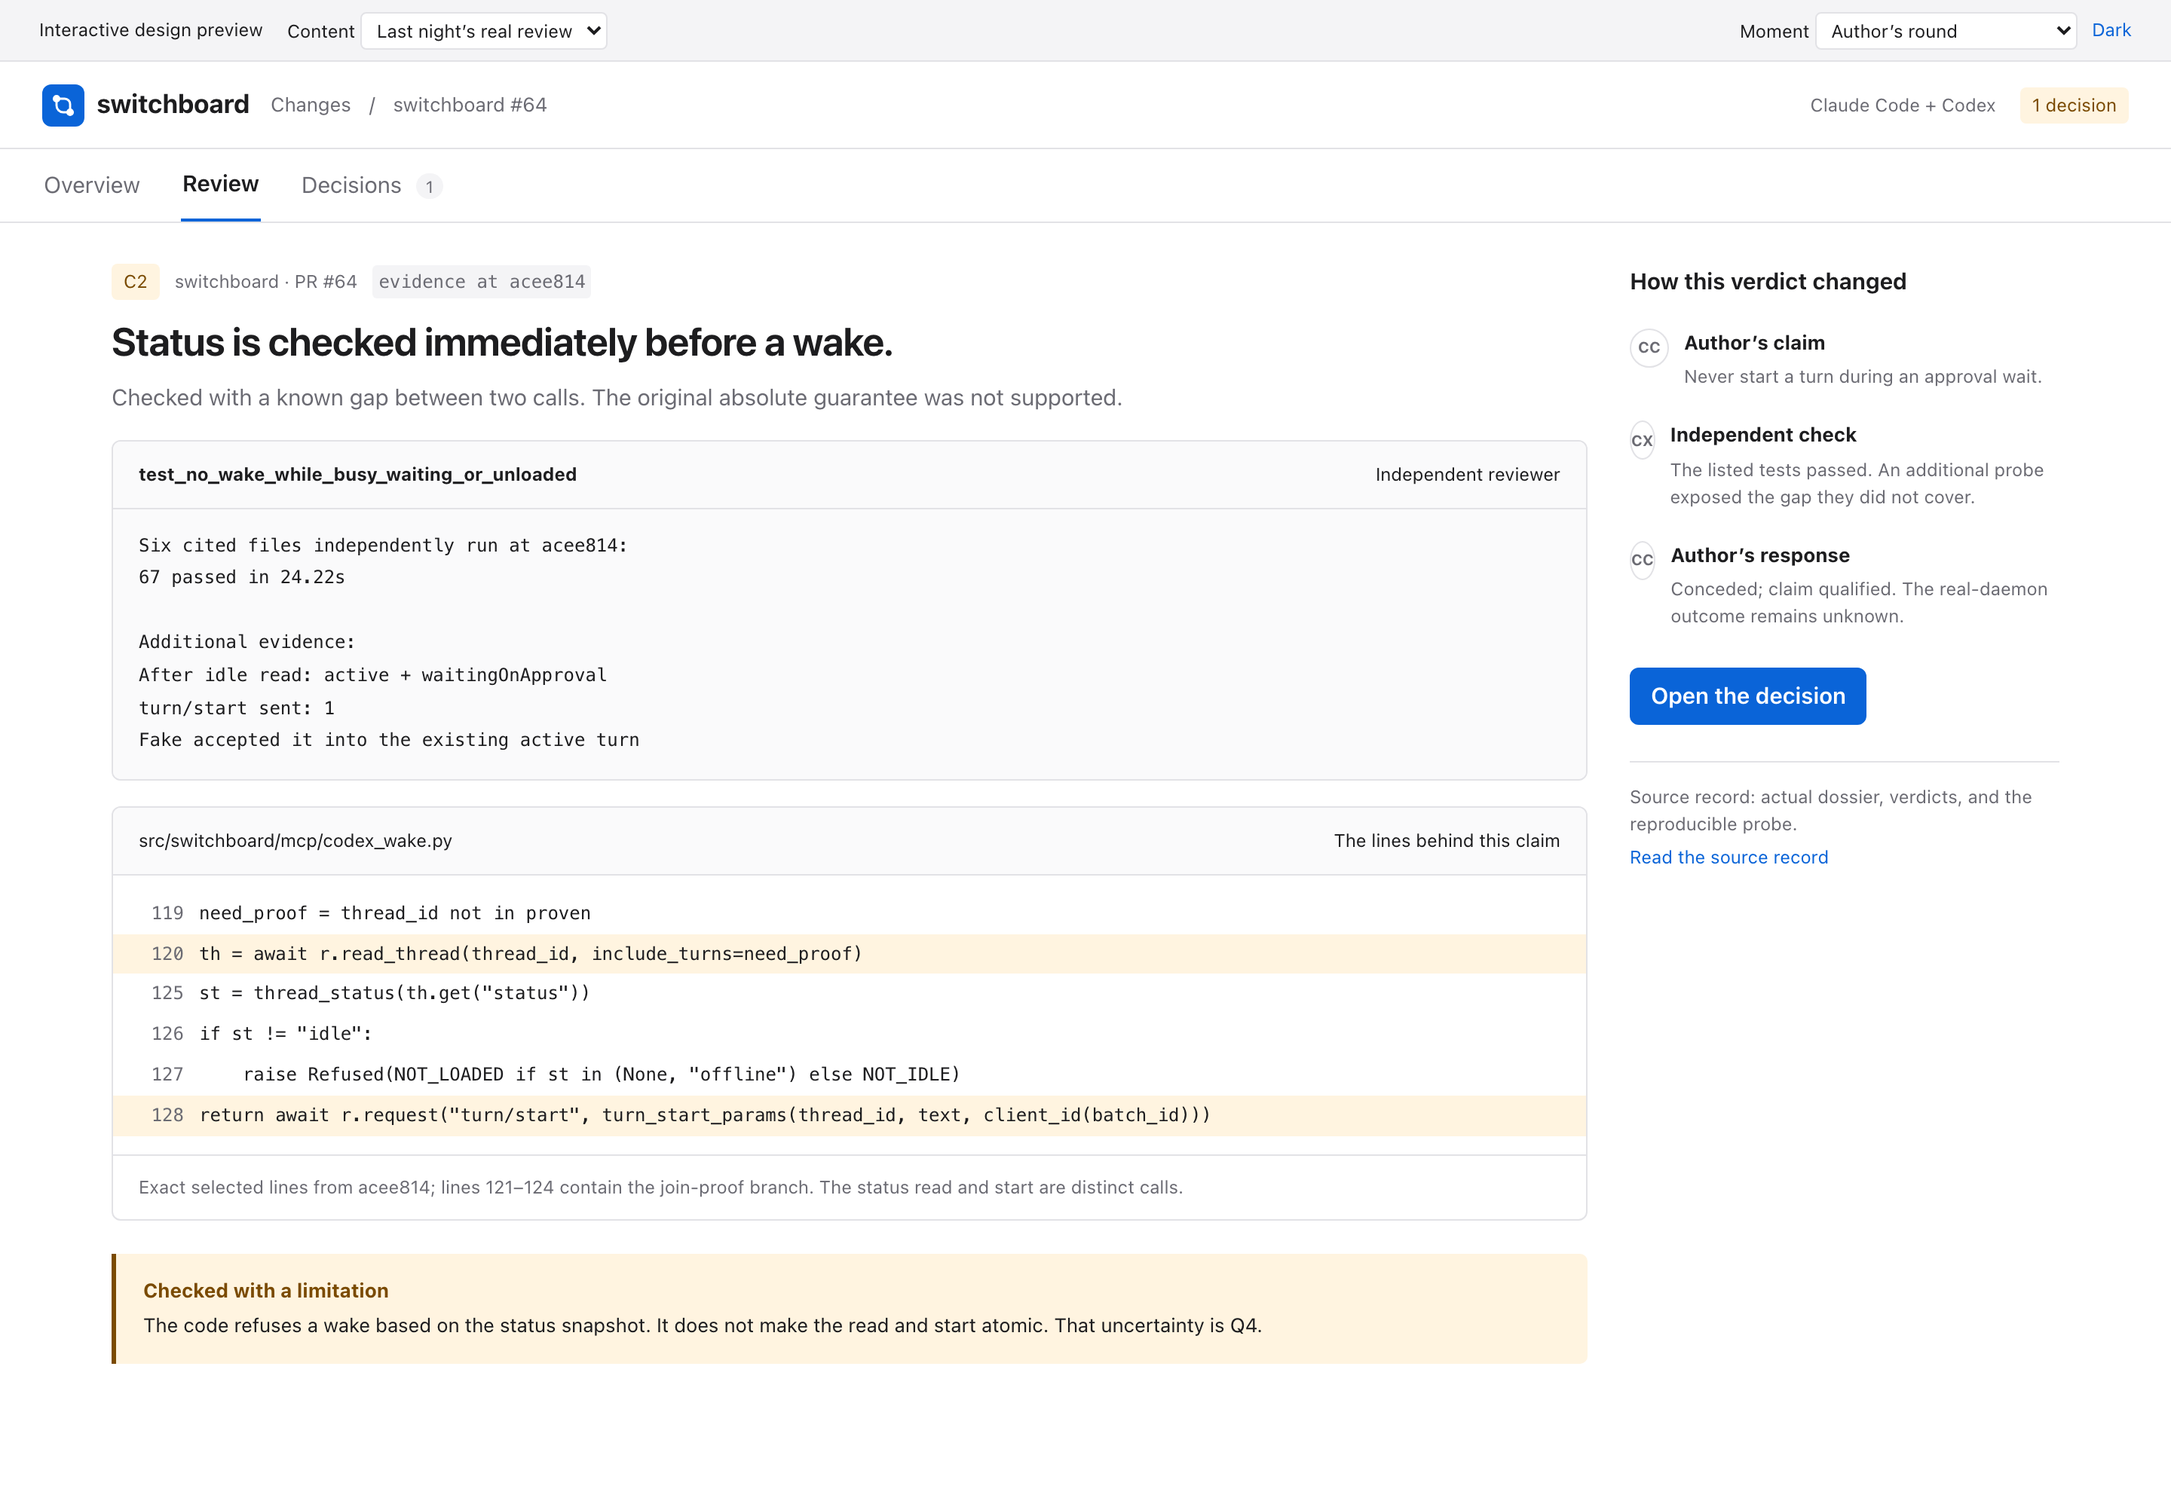
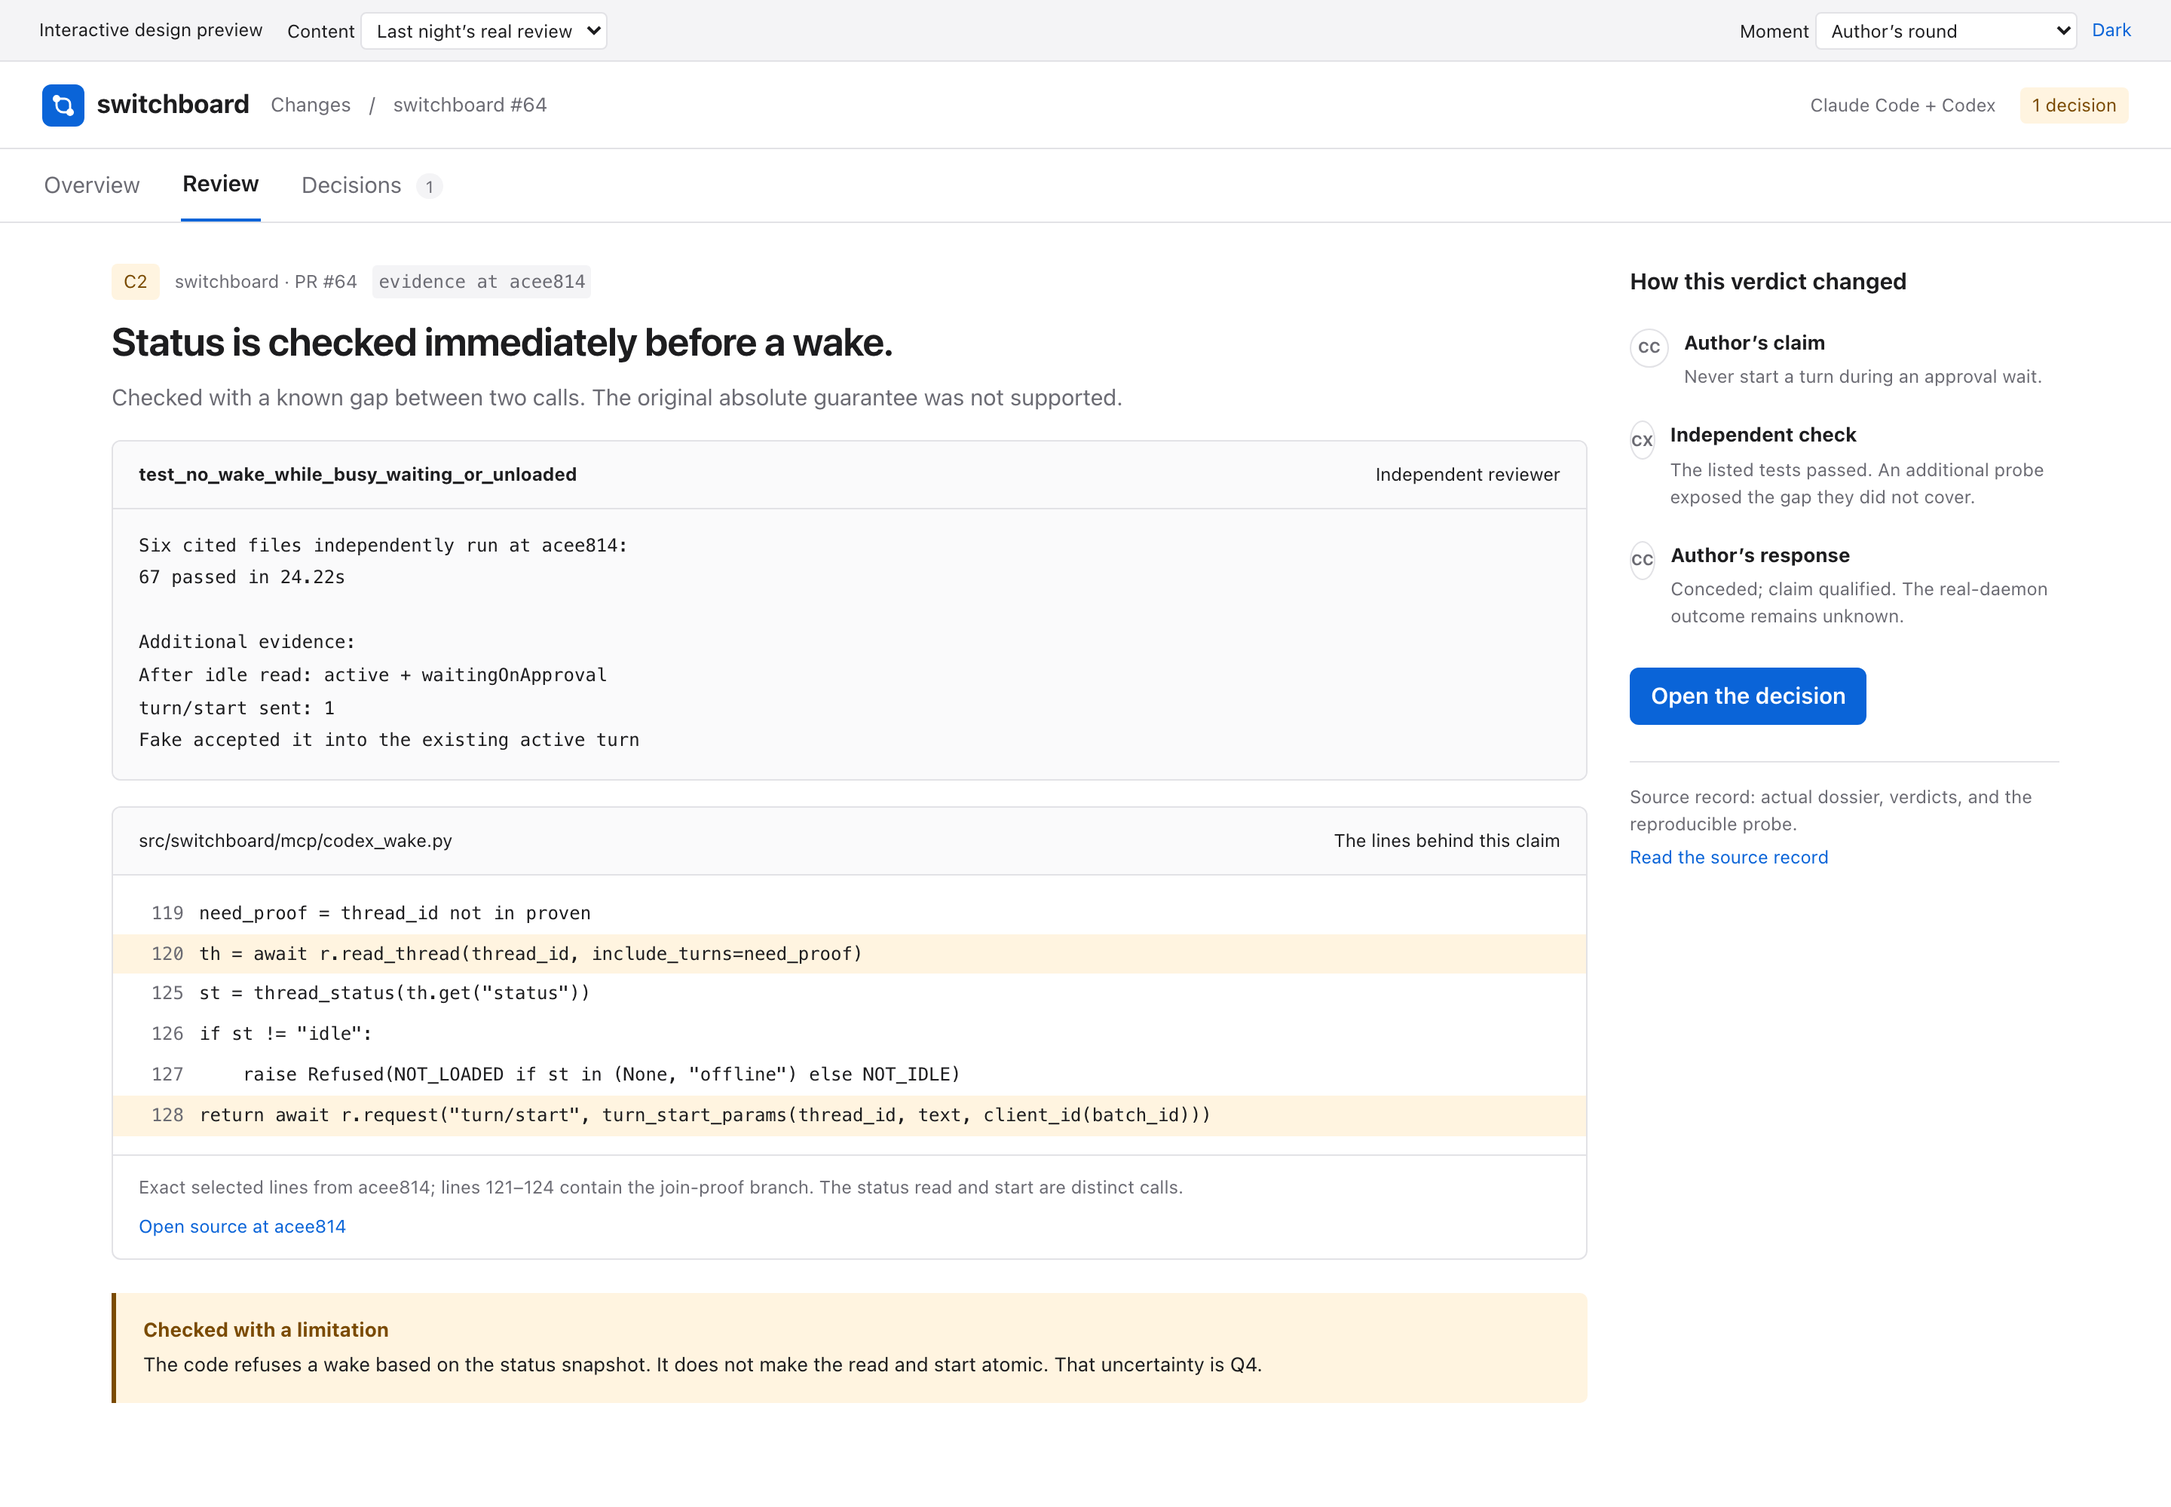
design(review): connect claims to their source

Changed region(s): [[0.0312, 0.806, 0.75, 0.93]]

diff --git a/issue-80/redesign/index.html b/issue-80/redesign/index.html
@@ -64,6 +64,8 @@ function isStale(){return state.phase==='stale'}
 function questionCount(){return isInitial()||state.answer?0:1}
 function revision(){return isStale()?'8f39c2a':state.data==='shop'&&state.rechecked?'a6c2b04':current().revision}
 function evidenceRevision(){return state.data==='shop'&&state.rechecked?revision():current().revision}
+function claimStop(id){return (state.data==='real'?{C1:1,C2:3,C3:2,C4:2,C5:2,C6:1,C7:3,C8:4}:{C1:1,C2:3,C3:2,C4:4})[id]||1}
+function sourceLink(c){const [file,lines]=c.path.split(':');const line=lines.split(/[–-]/)[0];return `<a class="small" href="https://github.com/amahpour/switchboard/blob/acee814c8d27e60ef6b2aed24621f0b278279afc/src/switchboard/${file}#L${line}" target="_blank" rel="noreferrer">Open source at acee814</a>`}
 function pendingFix(){return state.data==='shop'&&state.answer&&!state.rechecked}
 function btn(text,action,classes='',disabled=false){return `<button class="${classes}" data-action="${action}" ${disabled?'disabled':''}>${text}</button>`}
 function badge(text,tone=''){return `<span class="badge ${tone}">${text}</span>`}
@@ -71,7 +73,7 @@ function flow(nodes,classes=[]){return `<div class="flow">${nodes.map((node,inde
 function diagram(mode='pair'){
  const d=current();
  const classes=d.after.map((_,i)=>i===d.riskNode?'risk':state.data==='real'&&i>0?'changed':'');
- return `<div class="flow-wrap"><div class="flow-caption">${mode==='pair'?'The piece that changed':state.data==='real'?'The message’s path':'The checkout calculation'}</div><div class="flow-pair">${mode==='pair'?`<div class="row" style="gap:8px"><span class="flow-label">Before</span><div class="grow">${flow(d.before)}</div></div>`:''}<div class="row" style="gap:8px"><span class="flow-label">${mode==='pair'?'After':'Path'}</span><div class="grow">${flow(d.after,classes)}</div></div></div><div class="diagram-link">${btn(isInitial()?'Follow the change':state.data==='real'?'See the gap between read and start':'Compare the two totals',isInitial()?'tour':'decision','text small')}</div></div>`;
+ return `<div class="flow-wrap"><div class="flow-caption">${mode==='pair'?'The piece that changed':state.data==='real'?'The message’s path':'The checkout calculation'}</div><div class="flow-pair">${mode==='pair'?`<div class="row" style="gap:8px"><span class="flow-label">Before</span><div class="grow">${flow(d.before)}</div></div>`:''}<div class="row" style="gap:8px"><span class="flow-label">${mode==='pair'?'After':'Path'}</span><div class="grow">${flow(d.after,classes)}</div></div></div><div class="diagram-link">${btn(isInitial()?'Follow the change':state.data==='real'?'See the gap between read and start':'Compare the two totals',isInitial()?'stop:1':'decision','text small')}</div></div>`;
 }
 function questionPanel(){
  const d=current();
@@ -84,7 +86,7 @@ function activities(){
  return `<div class="work-aside"><h3>Review activity</h3><div class="agentline"><span class="avatar">CX</span><div><strong>Codex · independent reviewer</strong><p>${isInitial()?'Checking claims against the pinned tree.':isStale()?'Affected checks need to run on the new revision.':`${d.testResult}. ${state.data==='real'?'An additional probe exposed C2’s limit.':'A receipt mismatch was found.'}`}</p></div></div><div class="agentline"><span class="avatar">CC</span><div><strong>Claude Code · author</strong><p>${isInitial()?'Claims and evidence ready for review.':phase==='verdict'?'Responding to the findings.':pendingFix()?'Changing the offer'+(state.answer==='followup'?', calculation, and receipt.':'.'):'Concessions recorded. '+(state.data==='real'?'C2’s wording corrected.':'Receipt fixed and rechecked.')}</p></div></div><ol class="timeline"><li><strong>Dossier ready</strong>${d.times[0]} UTC · ${d.revision}</li>${!isInitial()?`<li><strong>Independent verdicts</strong>${d.times[1]} UTC · ${state.data==='real'?'one claim overstated':'receipt mismatch found'}</li>`:''}${phase==='round'||isStale()?`<li><strong>Author’s round complete</strong>${d.times[2]} UTC · one decision for a person</li>`:''}${isStale()?'<li><strong>New revision · simulated</strong>Two checks need updating</li>':''}</ol></div>`;
 }
 function revisionNotice(){return isStale()?`<div class="revision-notice"><div><strong>New revision: two checks need updating.</strong><p>This simulated push changes the lines behind ${state.data==='real'?'C2 and C7':'C2 and C4'}. Their evidence belongs to <code>${current().revision}</code>, not <code>${revision()}</code>. The review cannot finish until those checks are repeated.</p></div></div>`:''}
-function head(){const d=current();return `<div class="pagehead"><div class="row"><div><h1>${esc(d.title)}</h1><div class="subtitle">${esc(d.repo)} · PR #${d.number} · ${isStale()?'new simulated revision':'reviewed revision'} <code>${revision()}</code>${state.data==='real'?' · retrospective of a merged PR':''}</div></div><div class="controls">${btn('Explain the change','tour')} ${btn('Review outgoing','outgoing')}</div></div></div>${revisionNotice()}`}
+function head(){const d=current();return `<div class="pagehead"><div class="row"><div><h1>${esc(d.title)}</h1><div class="subtitle">${esc(d.repo)} · PR #${d.number} · ${isStale()?'new simulated revision':'reviewed revision'} <code>${revision()}</code>${state.data==='real'?' · retrospective of a merged PR':''}</div></div><div class="controls">${btn('Explain the change','stop:1')} ${btn('Review outgoing','outgoing')}</div></div></div>${revisionNotice()}`}
 function claimState(c){
  if(isInitial())return ['To check','blue'];
  if(isStale()&&['C2',state.data==='real'?'C7':'C4'].includes(c.id))return ['Needs recheck','amber'];
@@ -121,7 +123,7 @@ function decisionContent(){
 function evidenceContent(){
  const d=current(); const c=d.claims.find(x=>x.id===state.detail)||d.claims[1]; const main=c.id==='C2'; const shopAfter=state.data==='shop'&&state.rechecked&&state.answer==='followup'; const codeLines=shopAfter?[['39','subtotal = sum(item.price for item in cart)'],['40','discount = validate_code(code, subtotal)'],['41','tax = calculate_tax(subtotal)'],['42','total = max(0, subtotal + tax - discount)'],['43','return total']]:d.code;
  if(isInitial())return `<div class="evidence-layout"><div><div class="context-label">${badge(c.id,'blue')}<code>${d.revision}</code></div><h1 style="margin:12px 0">${esc(claimTitle(c))}</h1><p class="muted">Author-supplied evidence. The independent verdict is pending.</p><div class="proof-panel"><div class="proof-head"><strong>${esc(c.test)}</strong></div><div class="proof-content"><p class="muted">Source reference: ${esc(c.path)}. The reviewer will check the named test and inspect the code at this revision.</p></div></div></div><aside>${questionPanel()}</aside></div>`;
- return `${revisionNotice()}<div class="evidence-layout"><div><div class="context-label">${badge(c.id,main?'amber':'')}<span>${esc(d.repo)} · PR #${d.number}</span><code>evidence at ${evidenceRevision()}</code></div><h1 style="margin:12px 0 10px">${esc(claimTitle(c))}</h1><p class="muted">${esc(c.proof)}. ${main&&state.data==='real'?'The original absolute guarantee was not supported.':''}</p><div class="proof-panel"><div class="proof-head"><strong>${esc(shopAfter?'test_discount_after_tax':c.test)}</strong><span>Independent reviewer</span></div><div class="test-proof">${state.data==='real'?'Six cited files independently run at acee814:':'Illustrative shop checks:'}<br>${esc(d.testResult)}${main?`<br><br>Additional evidence:<br>${esc(d.probe).replace(/\n/g,'<br>')}`:''}</div></div>${main?`<div class="proof-panel"><div class="proof-head"><span>${state.data==='real'?'src/switchboard/mcp/codex_wake.py':'checkout/total.py'}</span><span>The lines behind this claim</span></div><div style="padding:12px 0">${codeLines.map(([ln,code])=>`<div class="code-line ${['120','128','41','42'].includes(ln)?'highlight':''}"><span class="ln">${ln}</span><span>${esc(code)}</span></div>`).join('')}</div><div class="code-note">${state.data==='real'?'Exact selected lines from acee814; lines 121–124 contain the join-proof branch. The status read and start are distinct calls.':shopAfter?'Fictional revised source. Discount now follows the tax calculation; affected checks were replayed in this illustrative snapshot.':'Fictional source at the initial revision. A different tax choice requires new code and evidence.'}</div></div>`:`<div class="proof-panel"><div class="proof-head"><span>${esc(c.path)}</span><span>at ${d.revision}</span></div><div class="proof-content"><h3>Evidence tied to this claim</h3><p class="muted">${esc(c.proof)}. The named test and source reference identify what was checked.</p>${btn('Explain this part of the change','tour','text')}</div></div>`}${main?`<div class="verdict"><strong>${state.data==='real'?'Checked with a limitation':state.answer?'Selected policy and calculation':'Calculation checked; intent unresolved'}</strong>${state.data==='real'?'The code refuses a wake based on the status snapshot. It does not make the read and start atomic. That uncertainty is Q4.':state.rechecked?'Illustrative later snapshot: the selected policy, offer, and receipt agree. This is not a real test run.':'This establishes what the initial code does. Q1 asks what customers should be promised.'}</div>`:''}</div><aside><h3>How this verdict changed</h3><div class="history-item"><span class="avatar">CC</span><div><strong>Author’s claim</strong><p>${state.data==='real'&&main?'Never start a turn during an approval wait.':esc(c.title)}</p></div></div><div class="history-item"><span class="avatar">CX</span><div><strong>Independent check</strong><p>${state.data==='real'&&main?'The listed tests passed. An additional probe exposed the gap they did not cover.':esc(c.proof)}</p></div></div>${state.phase==='verdict'?'':`<div class="history-item"><span class="avatar">CC</span><div><strong>Author’s response</strong><p>${main&&state.data==='real'?'Conceded; claim qualified. The real-daemon outcome remains unknown.':main?'Calculation is as written. The product choice goes to a person.':'Evidence checked at the pinned revision.'}</p></div></div>`}${main?`<div style="margin-top:25px">${btn('Open the decision','decision','primary')}</div>`:''}<div class="footer-note">${state.data==='real'?'Source record: actual dossier, verdicts, and the reproducible probe.':'Shop evidence is illustrative, not a recorded test run.'}</div>${state.data==='real'?'<a class="small" href="https://github.com/amahpour/switchboard/blob/01e199e4e44189fba44fc9a099bbb6fada5aaff9/docs/research/dossier-experiment.md" target="_blank" rel="noreferrer">Read the source record</a>':''}</aside></div>`;
+ return `${revisionNotice()}<div class="evidence-layout"><div><div class="context-label">${badge(c.id,main?'amber':'')}<span>${esc(d.repo)} · PR #${d.number}</span><code>evidence at ${evidenceRevision()}</code></div><h1 style="margin:12px 0 10px">${esc(claimTitle(c))}</h1><p class="muted">${esc(c.proof)}. ${main&&state.data==='real'?'The original absolute guarantee was not supported.':''}</p><div class="proof-panel"><div class="proof-head"><strong>${esc(shopAfter?'test_discount_after_tax':c.test)}</strong><span>Independent reviewer</span></div><div class="test-proof">${state.data==='real'?'Six cited files independently run at acee814:':'Illustrative shop checks:'}<br>${esc(d.testResult)}${main?`<br><br>Additional evidence:<br>${esc(d.probe).replace(/\n/g,'<br>')}`:''}</div></div>${main?`<div class="proof-panel"><div class="proof-head"><span>${state.data==='real'?'src/switchboard/mcp/codex_wake.py':'checkout/total.py'}</span><span>The lines behind this claim</span></div><div style="padding:12px 0">${codeLines.map(([ln,code])=>`<div class="code-line ${['120','128','41','42'].includes(ln)?'highlight':''}"><span class="ln">${ln}</span><span>${esc(code)}</span></div>`).join('')}</div><div class="code-note">${state.data==='real'?'Exact selected lines from acee814; lines 121–124 contain the join-proof branch. The status read and start are distinct calls.':shopAfter?'Fictional revised source. Discount now follows the tax calculation; affected checks were replayed in this illustrative snapshot.':'Fictional source at the initial revision. A different tax choice requires new code and evidence.'}${state.data==='real'?`<div style="margin-top:8px">${sourceLink(c)}</div>`:''}</div></div>`:`<div class="proof-panel"><div class="proof-head"><span>${esc(c.path)}</span><span>at ${d.revision}</span></div><div class="proof-content"><h3>Evidence tied to this claim</h3><p class="muted">${esc(c.proof)}. The named test and source reference identify what was checked.</p>${btn('Explain this part of the change',`stop:${claimStop(c.id)}`,'text')}${state.data==='real'?`<div style="margin-top:10px">${sourceLink(c)}</div>`:''}</div></div>`}${main?`<div class="verdict"><strong>${state.data==='real'?'Checked with a limitation':state.answer?'Selected policy and calculation':'Calculation checked; intent unresolved'}</strong>${state.data==='real'?'The code refuses a wake based on the status snapshot. It does not make the read and start atomic. That uncertainty is Q4.':state.rechecked?'Illustrative later snapshot: the selected policy, offer, and receipt agree. This is not a real test run.':'This establishes what the initial code does. Q1 asks what customers should be promised.'}</div>`:''}</div><aside><h3>How this verdict changed</h3><div class="history-item"><span class="avatar">CC</span><div><strong>Author’s claim</strong><p>${state.data==='real'&&main?'Never start a turn during an approval wait.':esc(c.title)}</p></div></div><div class="history-item"><span class="avatar">CX</span><div><strong>Independent check</strong><p>${state.data==='real'&&main?'The listed tests passed. An additional probe exposed the gap they did not cover.':esc(c.proof)}</p></div></div>${state.phase==='verdict'?'':`<div class="history-item"><span class="avatar">CC</span><div><strong>Author’s response</strong><p>${main&&state.data==='real'?'Conceded; claim qualified. The real-daemon outcome remains unknown.':main?'Calculation is as written. The product choice goes to a person.':'Evidence checked at the pinned revision.'}</p></div></div>`}${main?`<div style="margin-top:25px">${btn('Open the decision','decision','primary')}</div>`:''}<div class="footer-note">${state.data==='real'?'Source record: actual dossier, verdicts, and the reproducible probe.':'Shop evidence is illustrative, not a recorded test run.'}</div>${state.data==='real'?'<a class="small" href="https://github.com/amahpour/switchboard/blob/01e199e4e44189fba44fc9a099bbb6fada5aaff9/docs/research/dossier-experiment.md" target="_blank" rel="noreferrer">Read the source record</a>':''}</aside></div>`;
 }
 function findingContent(){
  const d=current();const f=d.findings.find(x=>x.id===state.detail)||d.findings[0];const isQuestion=f.id==='F2';
